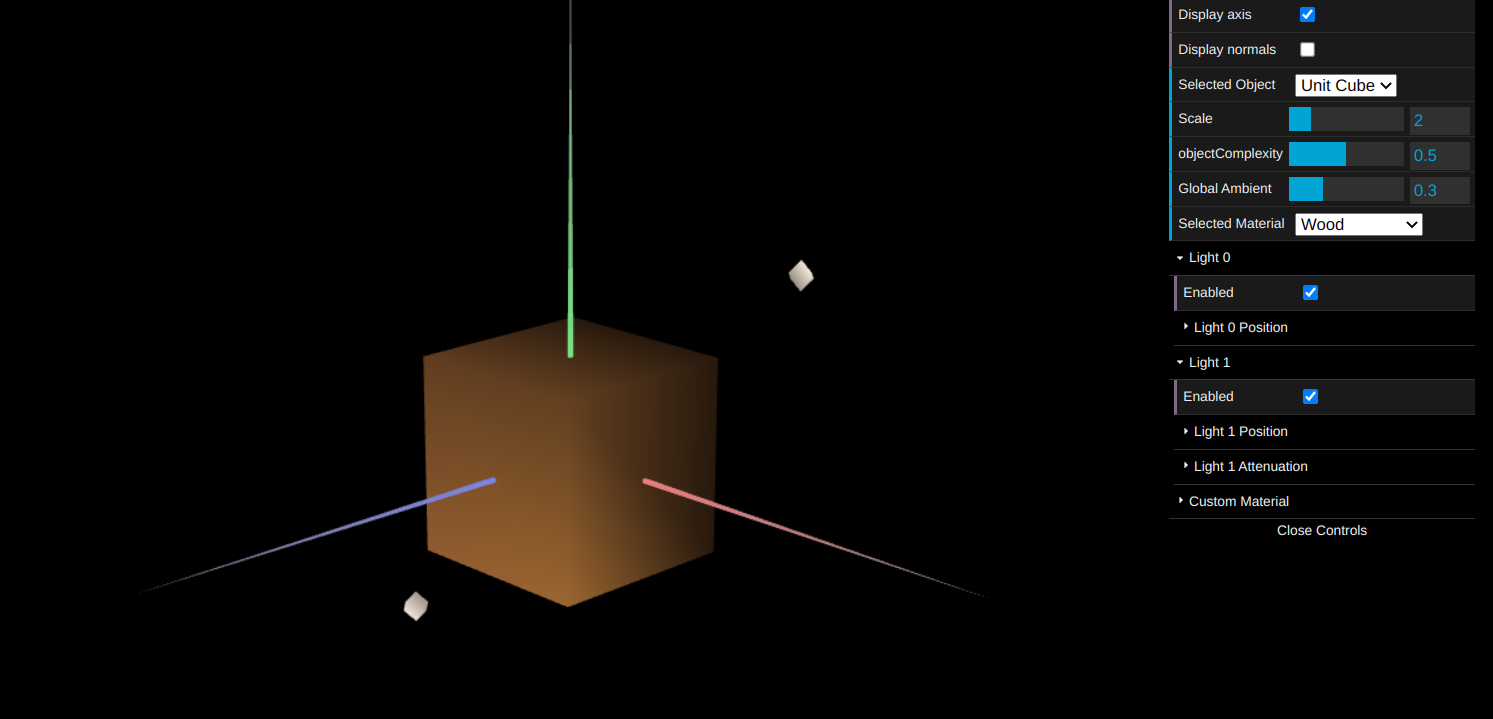
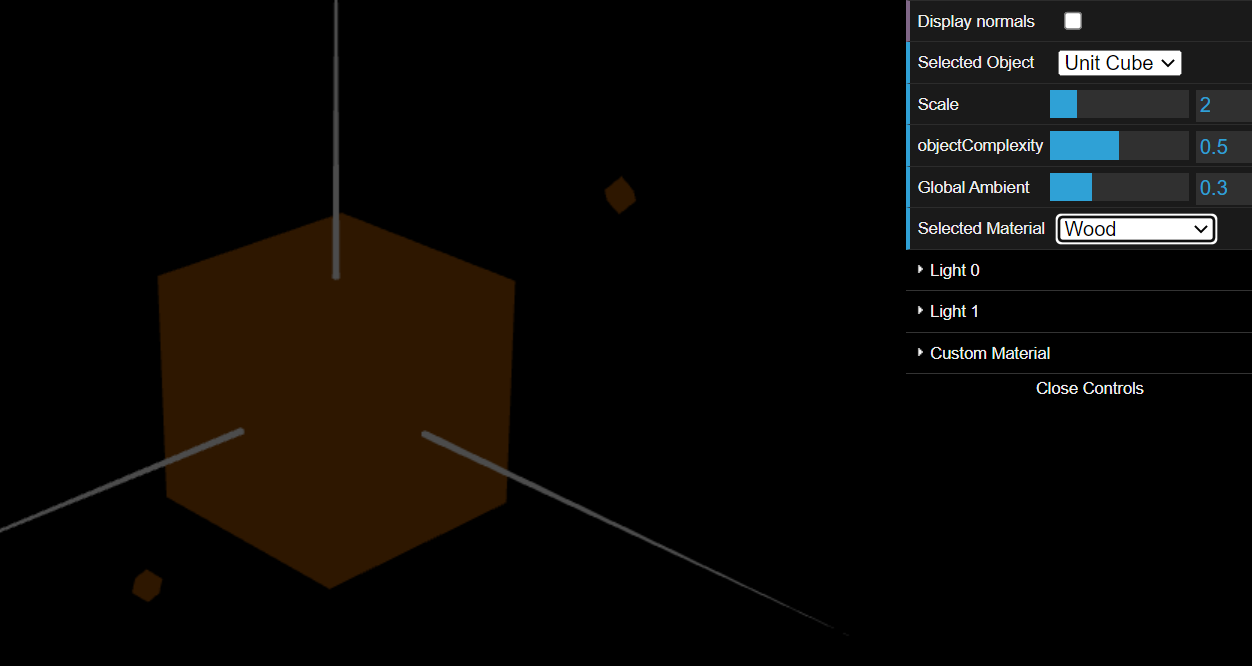
tp3-6

diff --git a/tp3/MyScene.js b/tp3/MyScene.js
@@ -132,9 +132,9 @@ export class MyScene extends CGFscene {
 
         // Madeira
         this.material4 = new CGFappearance(this);
-        this.material4.setAmbient(0.3, 0.2, 0.1, 1.0);
-        this.material4.setDiffuse(0.6, 0.4, 0.2, 1.0);
-        this.material4.setSpecular(0.1, 0.1, 0.1, 1.0);
+        this.material4.setAmbient(0.6, 0.3, 0, 1.0);
+        this.material4.setDiffuse(193/255,154/255,107/255);
+        this.material4.setSpecular(0.1,0.1,0.1,1);
         this.material4.setShininess(10.0);
 
         // Custom material (can be changed in the interface)

diff --git a/tp3/MyTangram.js b/tp3/MyTangram.js
@@ -91,7 +91,8 @@ export class MyTangram extends CGFobject {
     
         this.scene.multMatrix(trans);
         this.scene.multMatrix(rot);
-        this.green.apply();
+        //this.green.apply();
+        this.scene.customMaterial.apply();
         this.diamond.display();
         this.scene.popMatrix();
       

diff --git a/tp3/README.md b/tp3/README.md
@@ -1,1 +1,9 @@
-# [COPY FROM PREVIOUS TP AND ADJUST]
+# CG 2022/2023
+
+## Group T08G08
+
+## TP 3 Notes
+
+![Screenshot 1](screenshots/cg-t08g08-tp3-1.png)
+
+![Screenshot 2](screenshots/cg-t08g08-tp3-2.png)
